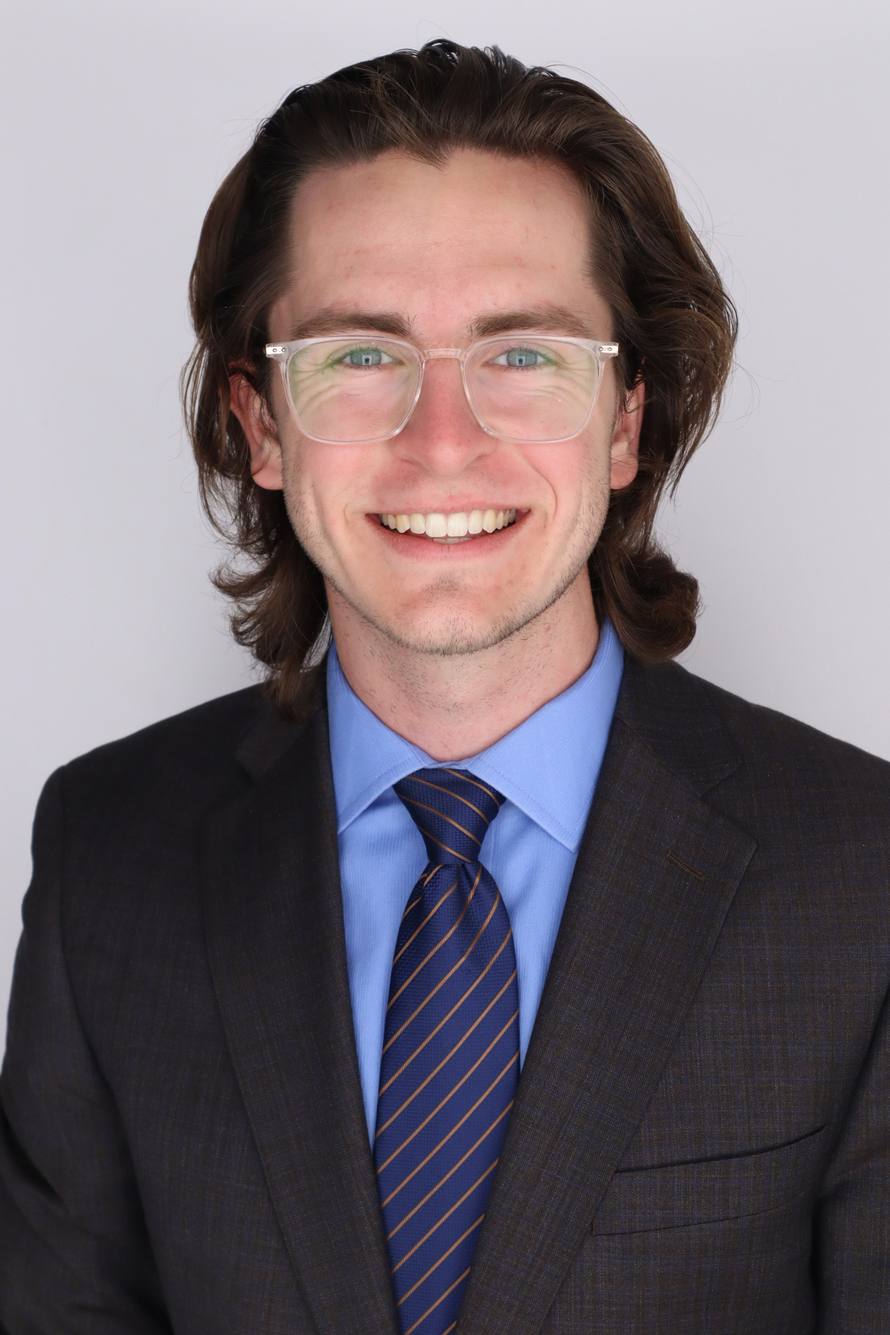
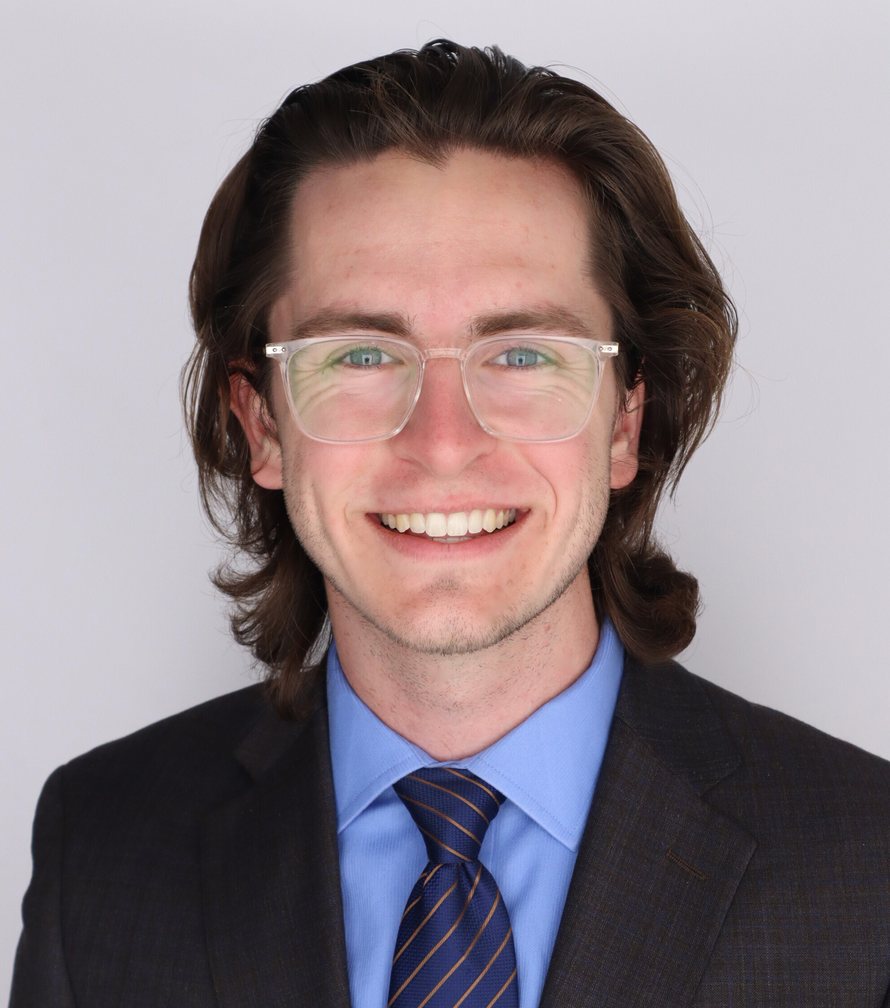
hopefully one final height fix

diff --git a/EmbraceAI/Styles/style.css b/EmbraceAI/Styles/style.css
@@ -189,6 +189,6 @@ h6 {
 }
 .bio-img {
   width: 100%;
-  height: 22vw;
+  height: 50vh;
   object-fit: cover;
 }
